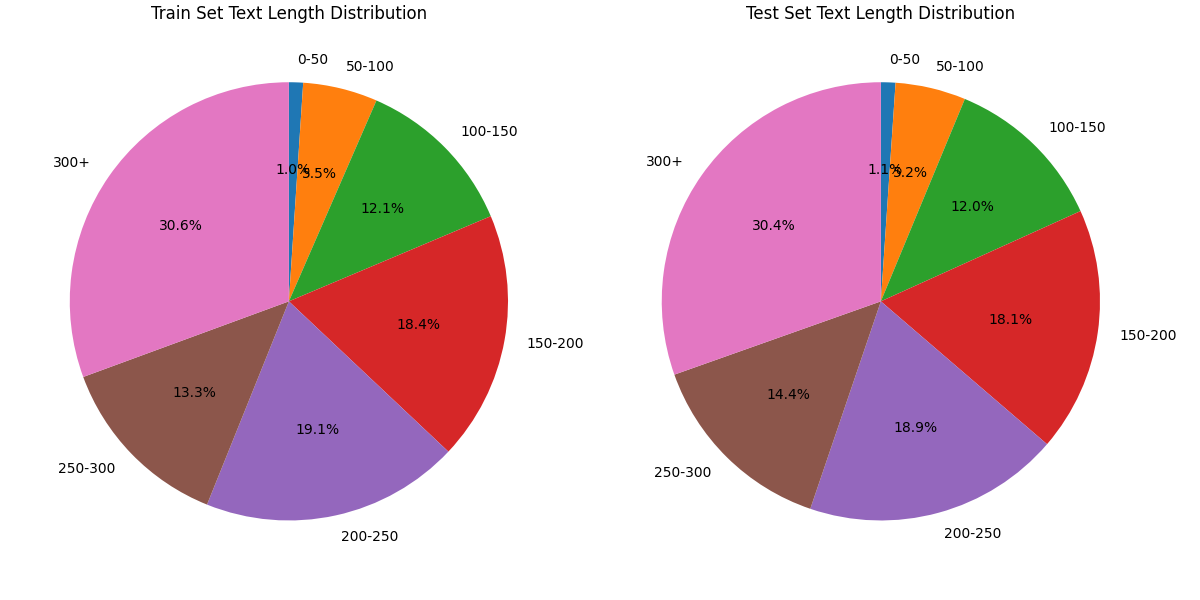
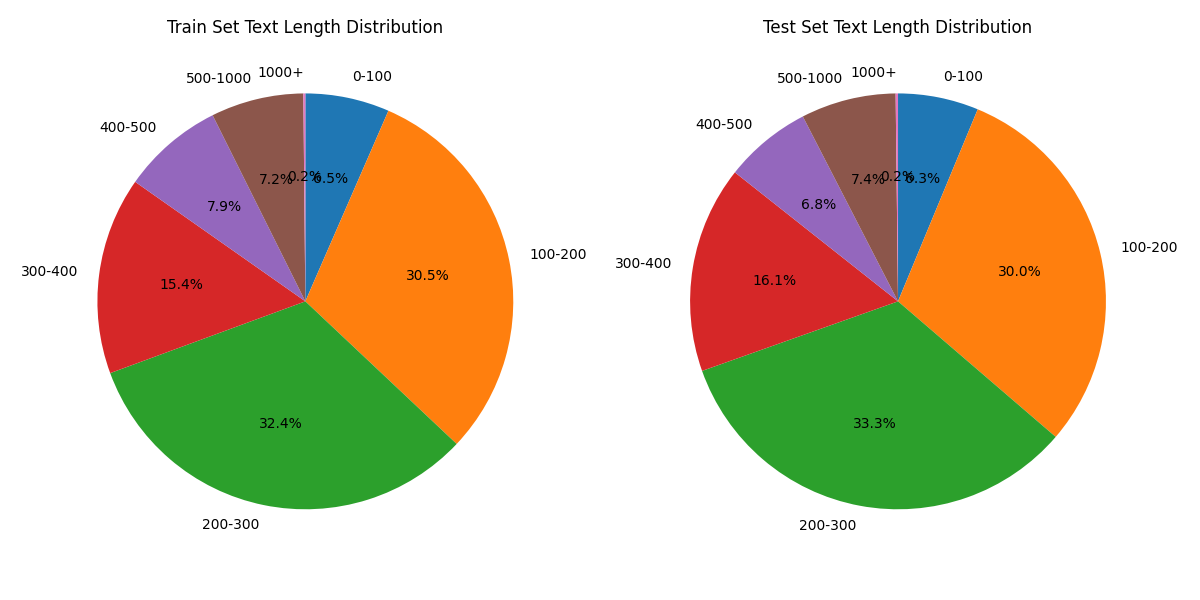
Changed some graphing parameters

diff --git a/data_analysis.py b/data_analysis.py
@@ -14,19 +14,6 @@ for section in sections:
     data = utils.read_train_data()
   else:
     data = utils.read_test_data()
-  
-  # Bar graph of label distribution
-  plt.figure(figsize=(10, 6))
-  label_counts = data["label"].value_counts()
-  desired_order = ["0", "1", "2", "3", "4"]
-  label_counts = label_counts.reindex(desired_order)
-  plt.bar(label_counts.index, label_counts.values, color="skyblue")
-  plt.title(f"{section.capitalize()} Set Label Distribution")
-  plt.xlabel("Label")
-  plt.ylabel("Count")
-  plt.tight_layout()
-  plt.savefig(f"images/label_distribution_{section}.png")
-  plt.close()
 
   # Bar graph (histogram) of text length distribution
   plt.figure(figsize=(10, 6))
@@ -64,10 +51,24 @@ for section in sections:
   plt.close()
 
   if section == "train":
+    
+    # Bar graph of label distribution
+    plt.figure(figsize=(10, 6))
+    label_counts = data["label"].value_counts()
+    desired_order = ["0", "1", "2", "3", "4"]
+    label_counts = label_counts.reindex(desired_order)
+    plt.bar(label_counts.index, label_counts.values, color="skyblue")
+    plt.title(f"{section.capitalize()} Set Label Distribution")
+    plt.xlabel("Label")
+    plt.ylabel("Count")
+    plt.tight_layout()
+    plt.savefig(f"images/label_distribution_{section}.png")
+    plt.close()
+    
     # Grouped pie charts of label distribution by text length
     # Bin text lengths into ranges
-    bins = [0, 50, 100, 150, 200, 250, 300, np.inf]
-    bin_labels = ["0-50", "50-100", "100-150", "150-200", "200-250", "250-300", "300+"]
+    bins = [0, 100, 200, 300, 400, 500, 1000, np.inf]
+    bin_labels = ["0-100", "100-200", "200-300", "300-400", "400-500", "500-1000", "1000+"]
     data["text_length_bin"] = pd.cut(data["text_length"], bins=bins, labels=bin_labels, right=False)
     grouped_tl = data.groupby(["text_length_bin", "label"]).size().unstack(fill_value=0)
     num_bins = len(grouped_tl.index)
@@ -124,8 +125,8 @@ train_data = utils.read_train_data()
 test_data = utils.read_test_data()
 
 # Pie chart of text length distribution for train and test sets
-bins = [0, 50, 100, 150, 200, 250, 300, np.inf]
-bin_labels = ["0-50", "50-100", "100-150", "150-200", "200-250", "250-300", "300+"]
+bins = [0, 100, 200, 300, 400, 500, 1000, np.inf]
+bin_labels = ["0-100", "100-200", "200-300", "300-400", "400-500", "500-1000", "1000+"]
 
 # Compute text lengths for both datasets
 train_data["text_length"] = train_data["text"].apply(len)
